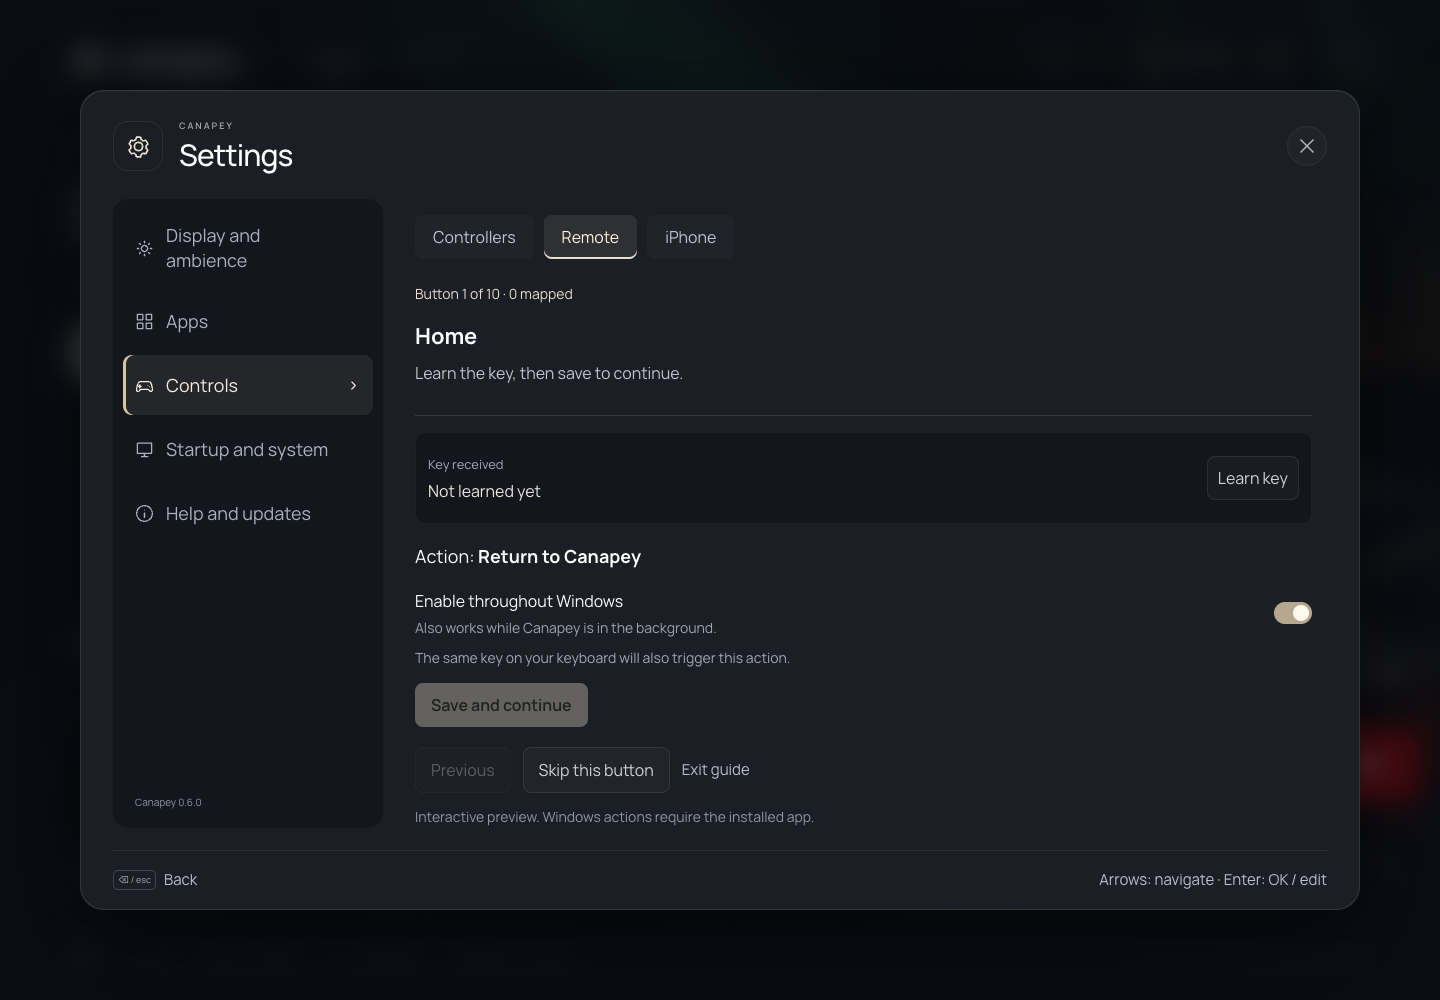
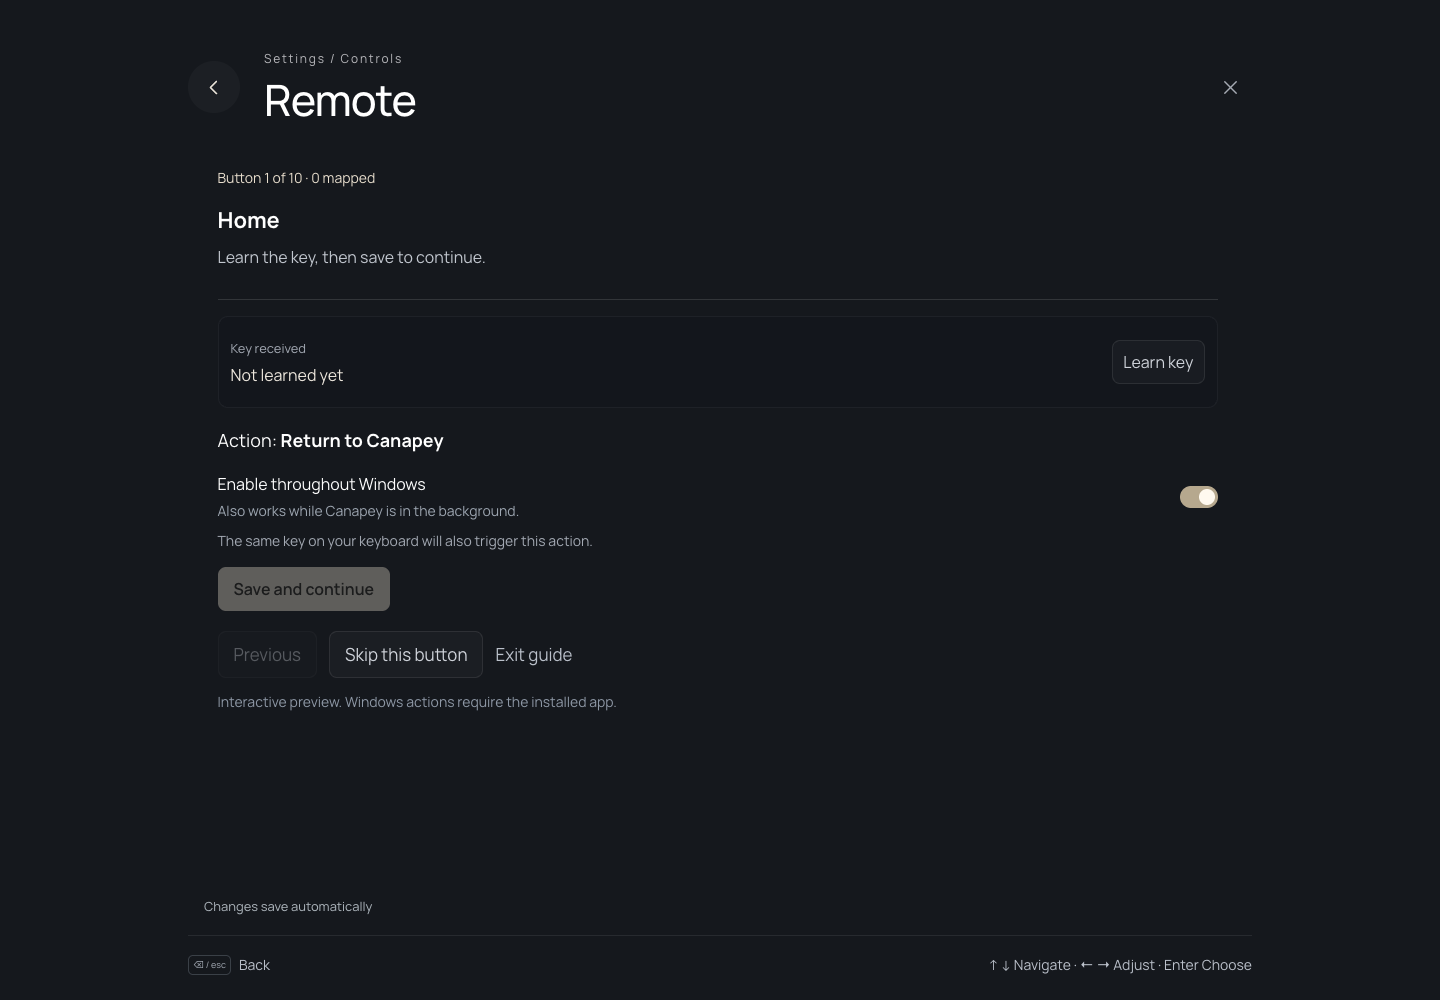
chore: prepare v0.8.0 experimental release
Synchronize versions and document the new settings navigation and TV adapters.
Refresh UI captures and record the required Apple remote upstream review.
Retain platform-specific compatibility limits and physical validation status.

diff --git a/scripts/capture-readme.js b/scripts/capture-readme.js
@@ -37,7 +37,9 @@ async (page) => {
   await page.locator('.app-card').filter({hasText:'Spotify'}).focus();
   await capture('docs/images/ambience.png');
   await page.getByRole('button',{name:"Settings",exact:true}).click();
-  await page.getByRole('heading',{name:"Display and ambience",exact:true}).waitFor();
+  await page.getByRole('heading',{name:"Settings",exact:true}).waitFor();
+  await page.keyboard.press('ArrowDown');
+  await page.keyboard.press('ArrowDown');
   await capture('docs/images/settings.png');
   await page.getByRole('button',{name:"Controls",exact:true}).click();
   await page.getByRole('button',{name:"Remote",exact:true}).click();

diff --git a/README.md b/README.md
@@ -15,12 +15,12 @@
 
 <p align="center">
   <img src="https://img.shields.io/badge/Windows_11-x64-28435B?style=flat-square" alt="Windows 11 x64">
-  <a href="https://github.com/DwennK/canapey-launcher/releases"><img src="https://img.shields.io/badge/0.7.1-experimental-78664E?style=flat-square" alt="Version 0.7.1 — experimental"></a>
+  <a href="https://github.com/DwennK/canapey-launcher/releases"><img src="https://img.shields.io/badge/0.8.0-experimental-78664E?style=flat-square" alt="Version 0.8.0 — experimental"></a>
   <img src="https://img.shields.io/badge/Tauri_2-Rust_%2B_Vue_3-344C44?style=flat-square" alt="Built with Tauri 2, Rust and Vue 3">
 </p>
 
 <p align="center">
-  <a href="https://github.com/DwennK/canapey-launcher/releases/tag/v0.7.1"><strong>Windows downloads</strong></a> ·
+  <a href="https://github.com/DwennK/canapey-launcher/releases/tag/v0.8.0"><strong>Windows downloads</strong></a> ·
   <a href="#quick-start">Build from source</a> ·
   <a href="CHANGELOG.md">Release notes</a> ·
   <a href="https://github.com/DwennK/canapey-launcher/issues">Report an issue</a>
@@ -58,7 +58,7 @@
   </tr>
   <tr>
     <td width="50%" valign="top">
-      <img src="docs/images/settings.png" alt="Canapey settings with five sections, interface scaling and four ambience choices" width="100%">
+      <img src="docs/images/settings.png" alt="Canapey full-screen settings with five categories and a clearly highlighted Controls selection" width="100%">
       <p><strong>Settle into your own setup.</strong><br><sub>Five settings sections bring display, apps, devices, system and help together.</sub></p>
     </td>
     <td width="50%" valign="top">
@@ -68,7 +68,7 @@
   </tr>
 </table>
 
-<sub>Current development browser UI captures at 1440 × 1000, taken on 29 October 2026. The English interface uses a sample library of web shortcuts; these are not detected Windows installations. The YouTube card marked “Install” opens the installation flow. Native Windows actions are unavailable in browser preview. The English interface ships in v0.7.1. Captures can be reproduced with <code>scripts/capture-readme.js</code>.</sub>
+<sub>Current development browser UI captures at 1440 × 1000, taken on 2 November 2026. The English interface uses a sample library of web shortcuts; these are not detected Windows installations. The YouTube card marked “Install” opens the installation flow. Native Windows actions are unavailable in browser preview. The redesigned Settings interface ships in v0.8.0. Captures can be reproduced with <code>scripts/capture-readme.js</code>.</sub>
 
 ## Why Canapey
 
@@ -102,7 +102,7 @@ The current source uses English throughout. First-launch system-language detecti
 
 ## Downloads
 
-**Current project version: 0.7.1.** Download the Windows installer from [the v0.7.1 prerelease](https://github.com/DwennK/canapey-launcher/releases/tag/v0.7.1), alongside its release notes and `SHA256SUMS.txt`.
+**Current project version: 0.8.0.** Download the Windows installer from [the v0.8.0 prerelease](https://github.com/DwennK/canapey-launcher/releases/tag/v0.8.0), alongside its release notes and `SHA256SUMS.txt`.
 
 | Platform | Distribution | Status |
 | --- | --- | --- |
@@ -133,15 +133,15 @@ On first launch, choose **Add apps**: detection starts automatically. Browse for
 
 LaunchBox has a suggested card, a dedicated backdrop and an **Arcade** general ambience with bundled ImageGen artwork. Import **LaunchBox** or **Big Box** through **Add apps → LaunchBox**; Windows discovery checks shortcuts, registered apps and common portable folders. Use **Browse** for a custom location. Big Box remains a separate application and follows LaunchBox's licensing; Canapey does not install games, emulators or a LaunchBox license. The artwork is original Canapey artwork, not a game screenshot or official LaunchBox branding. See [asset provenance and generation prompt](public/art/LAUNCHBOX.md).
 
-### Philips TV power
+### TV power
 
-In **Settings → Controls → TV**, choose **Find my TV**, select the TV by name and enter the four-digit code shown on its screen. Turn the TV on for setup and connect both devices to the same local network. If discovery cannot find it, use **My TV is not listed** to enter its IP address.
+In **Settings → Controls → TV**, choose **Find my TV**, select the TV by name and follow its connection instructions (Philips PIN, LG/Samsung approval, Sony pre-shared key, or Roku network access). Turn the TV on for setup and connect both devices to the same local network. If discovery cannot find it, use **My TV is not listed** to enter its IP address.
 
-After pairing, **Turn on the TV automatically** is enabled by default: Canapey sends Wake on LAN and a Philips screen-power command when the launcher starts or the PC resumes. **Turn off the TV automatically** is a separate option, disabled by default; it puts the TV in standby when the PC sleeps or shuts down (including restart). **Test TV wake** and **Turn off TV now** let you check the connection. Canapey must remain open for power events; enable its Windows startup setting for automatic wake at login.
+After pairing, **Turn on the TV automatically** is enabled by default: Canapey sends Wake on LAN and the TV platform’s power-on command when the launcher starts or the PC resumes. **Turn off the TV automatically** is a separate option, disabled by default; it puts the TV in standby when the PC sleeps or shuts down (including restart). **Test TV wake** and **Turn off TV now** let you check the connection. Canapey must remain open for power events; enable its Windows startup setting for automatic wake at login.
 
-The published installer supports Philips TVs with jointSPACE v6 PIN pairing. Available from v0.7.1. Native Windows sleep/shutdown handling still needs physical PC validation. See [TV setup, behavior and validation](docs/TV.md).
+The installer supports Philips TVs with jointSPACE v6 PIN pairing and adds experimental LG webOS, Samsung Tizen, Sony BRAVIA IP control and Roku TV adapters in v0.8.0. Native Windows sleep/shutdown handling still needs physical PC validation. See [TV setup, behavior and validation](docs/TV.md).
 
-The development version additionally includes experimental LG webOS, Samsung Tizen, Sony BRAVIA IP control and Roku TV adapters (including compatible TCL/Hisense models). These changes are not in v0.7.1 and have not been physically validated on those TVs. Google TV remote pairing and VIDAA are not included.
+Roku TV support includes compatible TCL, Hisense and Roku-branded TVs. Compatibility depends on the operating system and exposed API, not the brand alone. The new adapters have automated protocol/UI tests but have not been physically validated on those TVs. Google TV remote pairing and VIDAA are not included.
 
 ### iPhone / Apple TV Remote
 

diff --git a/docs/APPLE_REMOTE.md b/docs/APPLE_REMOTE.md
@@ -23,8 +23,8 @@ The initial name is `Canapey — <COMPUTERNAME>`. **Name and network** changes i
 
 | Source | Latest reviewed reference | Ported / used reference |
 | --- | --- | --- |
-| [windows-apple-remote](https://github.com/aryakvn/windows-apple-remote) | [`c8a494dcb656c79248fd24d60a814b35aa051e54`](https://github.com/aryakvn/windows-apple-remote/tree/c8a494dcb656c79248fd24d60a814b35aa051e54), release 0.2.0; HEAD rechecked October 30, 2026 | Companion subset of this commit, adapted to Rust for v0.5.0; not a complete port |
-| [pyatv](https://github.com/postlund/pyatv) | [`b277a4c8222ecdcbaab8a24e3e713ca44765adb4`](https://github.com/postlund/pyatv/tree/b277a4c8222ecdcbaab8a24e3e713ca44765adb4), HEAD rechecked October 30, 2026; compared with `v0.18.0` for Companion, HAP/SRP, OPACK and ChaCha20 | Interoperability oracle `pyatv==0.18.0`; adapted cryptographic/serialization conventions |
+| [windows-apple-remote](https://github.com/aryakvn/windows-apple-remote) | [`c8a494dcb656c79248fd24d60a814b35aa051e54`](https://github.com/aryakvn/windows-apple-remote/tree/c8a494dcb656c79248fd24d60a814b35aa051e54), release 0.2.0; HEAD rechecked November 2, 2026 | Companion subset of this commit, adapted to Rust for v0.5.0; not a complete port |
+| [pyatv](https://github.com/postlund/pyatv) | [`b277a4c8222ecdcbaab8a24e3e713ca44765adb4`](https://github.com/postlund/pyatv/tree/b277a4c8222ecdcbaab8a24e3e713ca44765adb4), HEAD rechecked November 2, 2026; compared with `v0.18.0` for Companion, HAP/SRP, OPACK and ChaCha20 | Interoperability oracle `pyatv==0.18.0`; adapted cryptographic/serialization conventions |
 | [Companion documentation](https://pyatv.dev/documentation/protocols/#companion-link) | Read October 19, 2026 | Protocol description, not an Apple compatibility guarantee |
 
 Full MIT licenses and copyrights are retained in [`THIRD_PARTY_NOTICES.md`](../THIRD_PARTY_NOTICES.md), also bundled as an application resource. The reference Python code is not shipped.
@@ -56,6 +56,7 @@ The implementation chat's recorded Codex monitor runs **Mondays at 09:00 Europe/
 | October 19, 2026, v0.5.0 | windows-apple-remote `c8a494d`; pyatv `b277a4c8222ecdcbaab8a24e3e713ca44765adb4` versus `v0.18.0` | windows-apple-remote HEAD unchanged, no open issues at review time; no Companion/OPACK/HAP-SRP/ChaCha20/TLV8 changes in pyatv comparison. No additional fix to port; integrated references unchanged. pyatv oracle and release checks rerun. |
 | October 29, 2026, v0.6.0 | windows-apple-remote `c8a494dcb656c79248fd24d60a814b35aa051e54`, latest `v0.2.0`; pyatv `b277a4c8222ecdcbaab8a24e3e713ca44765adb4` | Both HEADs unchanged since October 19; no open windows-apple-remote issues. pyatv comparison with `v0.18.0` changes only `CHANGES.md` and `pyatv/const.py`, no Companion/crypto files. No new fixes accepted/rejected; actually ported references unchanged. Local Rust tests and CI Companion oracle required for this release. |
 | October 30, 2026, v0.7.1 | windows-apple-remote `c8a494dcb656c79248fd24d60a814b35aa051e54`; pyatv `b277a4c8222ecdcbaab8a24e3e713ca44765adb4` | Both HEADs unchanged; no open windows-apple-remote issues. Comparing pyatv with v0.18.0 still changes only CHANGES.md and pyatv/const.py. No new Companion fix to accept or reject; integrated revisions unchanged. Windows tests and the CI Companion oracle are release gates. |
+| November 2, 2026, v0.8.0 | windows-apple-remote `c8a494dcb656c79248fd24d60a814b35aa051e54`, latest v0.2.0; pyatv `b277a4c8222ecdcbaab8a24e3e713ca44765adb4` | Both HEADs unchanged; no open windows-apple-remote issues. The pyatv comparison with v0.18.0 changes only CHANGES.md and pyatv/const.py. No new Companion fixes to accept or reject; integrated references stay unchanged. Windows tests and the CI Companion oracle remain release gates. |
 
 ## Architecture and protection limits
 

diff --git a/CHANGELOG.md b/CHANGELOG.md
@@ -1,6 +1,10 @@
 # Changelog
 
-## Unreleased
+## 0.8.0 — 2026-11-02
+
+- Rebuild Settings as full-screen category lists and focused pages. Directional movement stays in the current page; Back restores the previous selection. Sliders adjust with left/right, and OK opens large option lists. Display, ambience and sound have separate pages.
+- Restore custom remote navigation inside its settings page and release key-learning capture after input settles. Keep controller, iPhone and remote text entry on the shared on-screen keyboard.
+- Refresh compatible npm and Cargo dependencies, including Vitest 5.1.0, vue-tsc 3.3.14, Rollup 4.67.4 and mdns-sd 0.21.7, without changing the project's major-version constraints.
 
 - Extend local TV discovery and power controls to experimental LG webOS, Samsung Tizen, Sony BRAVIA IP control and Roku TVs, including compatible TCL/Hisense models. Guide each platform through its own authorization flow; preserve existing Philips pairings and conservative standby defaults. These adapters still require real TV validation. Google TV remote pairing and VIDAA are not included.
 

diff --git a/docs/TV.md b/docs/TV.md
@@ -1,8 +1,8 @@
 # TV power
 
-Controls → TV connects one compatible TV to the current Windows account. The published v0.7.1 release includes Philips jointSPACE v6. The additional families below are **unreleased, experimental development changes**, not part of the v0.7.1 installer. Physical Windows lifecycle validation is still required.
+Controls → TV connects one compatible TV to the current Windows account. Version **0.8.0** includes Philips jointSPACE v6 and the additional experimental TV families below. Physical Windows lifecycle validation is still required.
 
-## Compatibility in the development version
+## Compatibility in v0.8.0
 
 | Family / brands | Connection | Power and setup |
 | --- | --- | --- |
